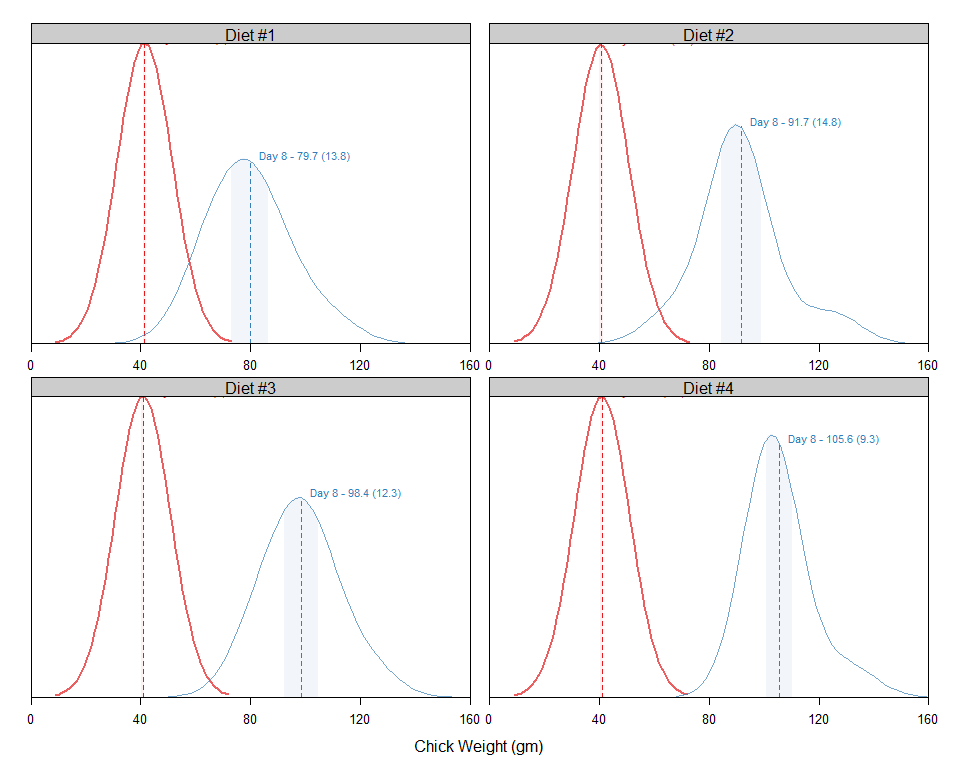
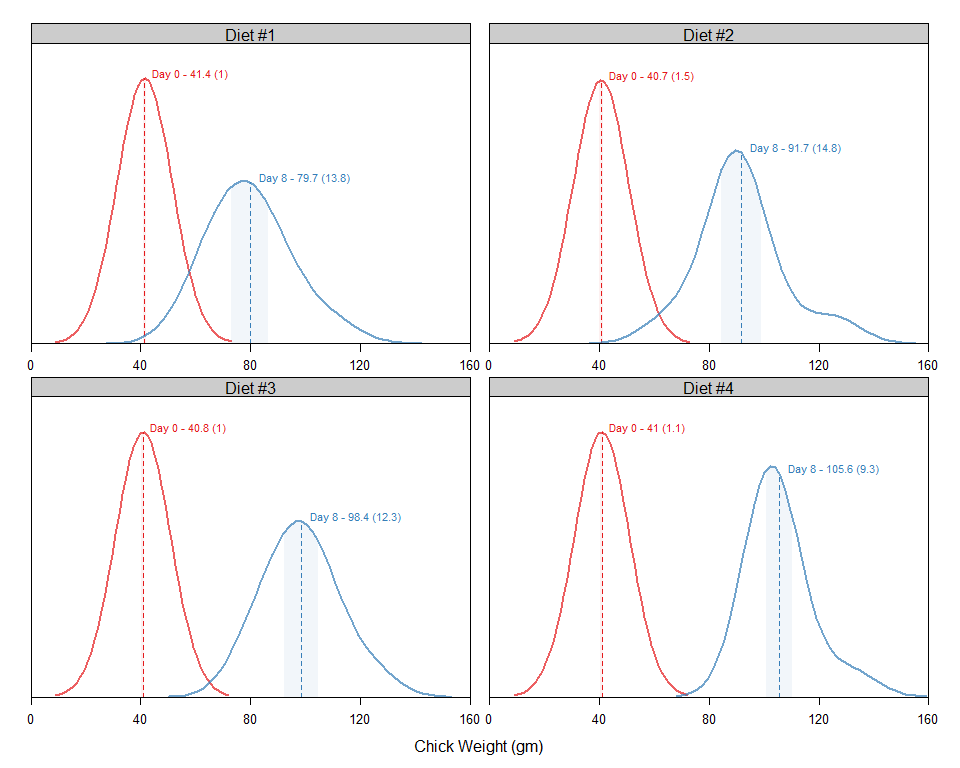
expand y axis

diff --git a/R-examples/001-density-lattice/README.md b/R-examples/001-density-lattice/README.md
@@ -33,12 +33,13 @@ densityplot(~weight|Diet, group=Time, data=dd,
             as.table=T,
             bw=10,
             col=cols,
-            lwd=c(2,rep(0.5,3),2),
+            lwd=2,
             allow.multiple=T,
             ylab='',
             xlab='Chick Weight (gm)',
             between=list(x=1, y=0),
             xlim=c(0, 160),
+            ylim=c(0,0.045),
             scales=list(alternating=F, tck=c(1,0), axs='i',
                         x=list(relation='free', at=seq(0,160,40)),
                         y=list(tck=c(0,0), labels=NULL)),
